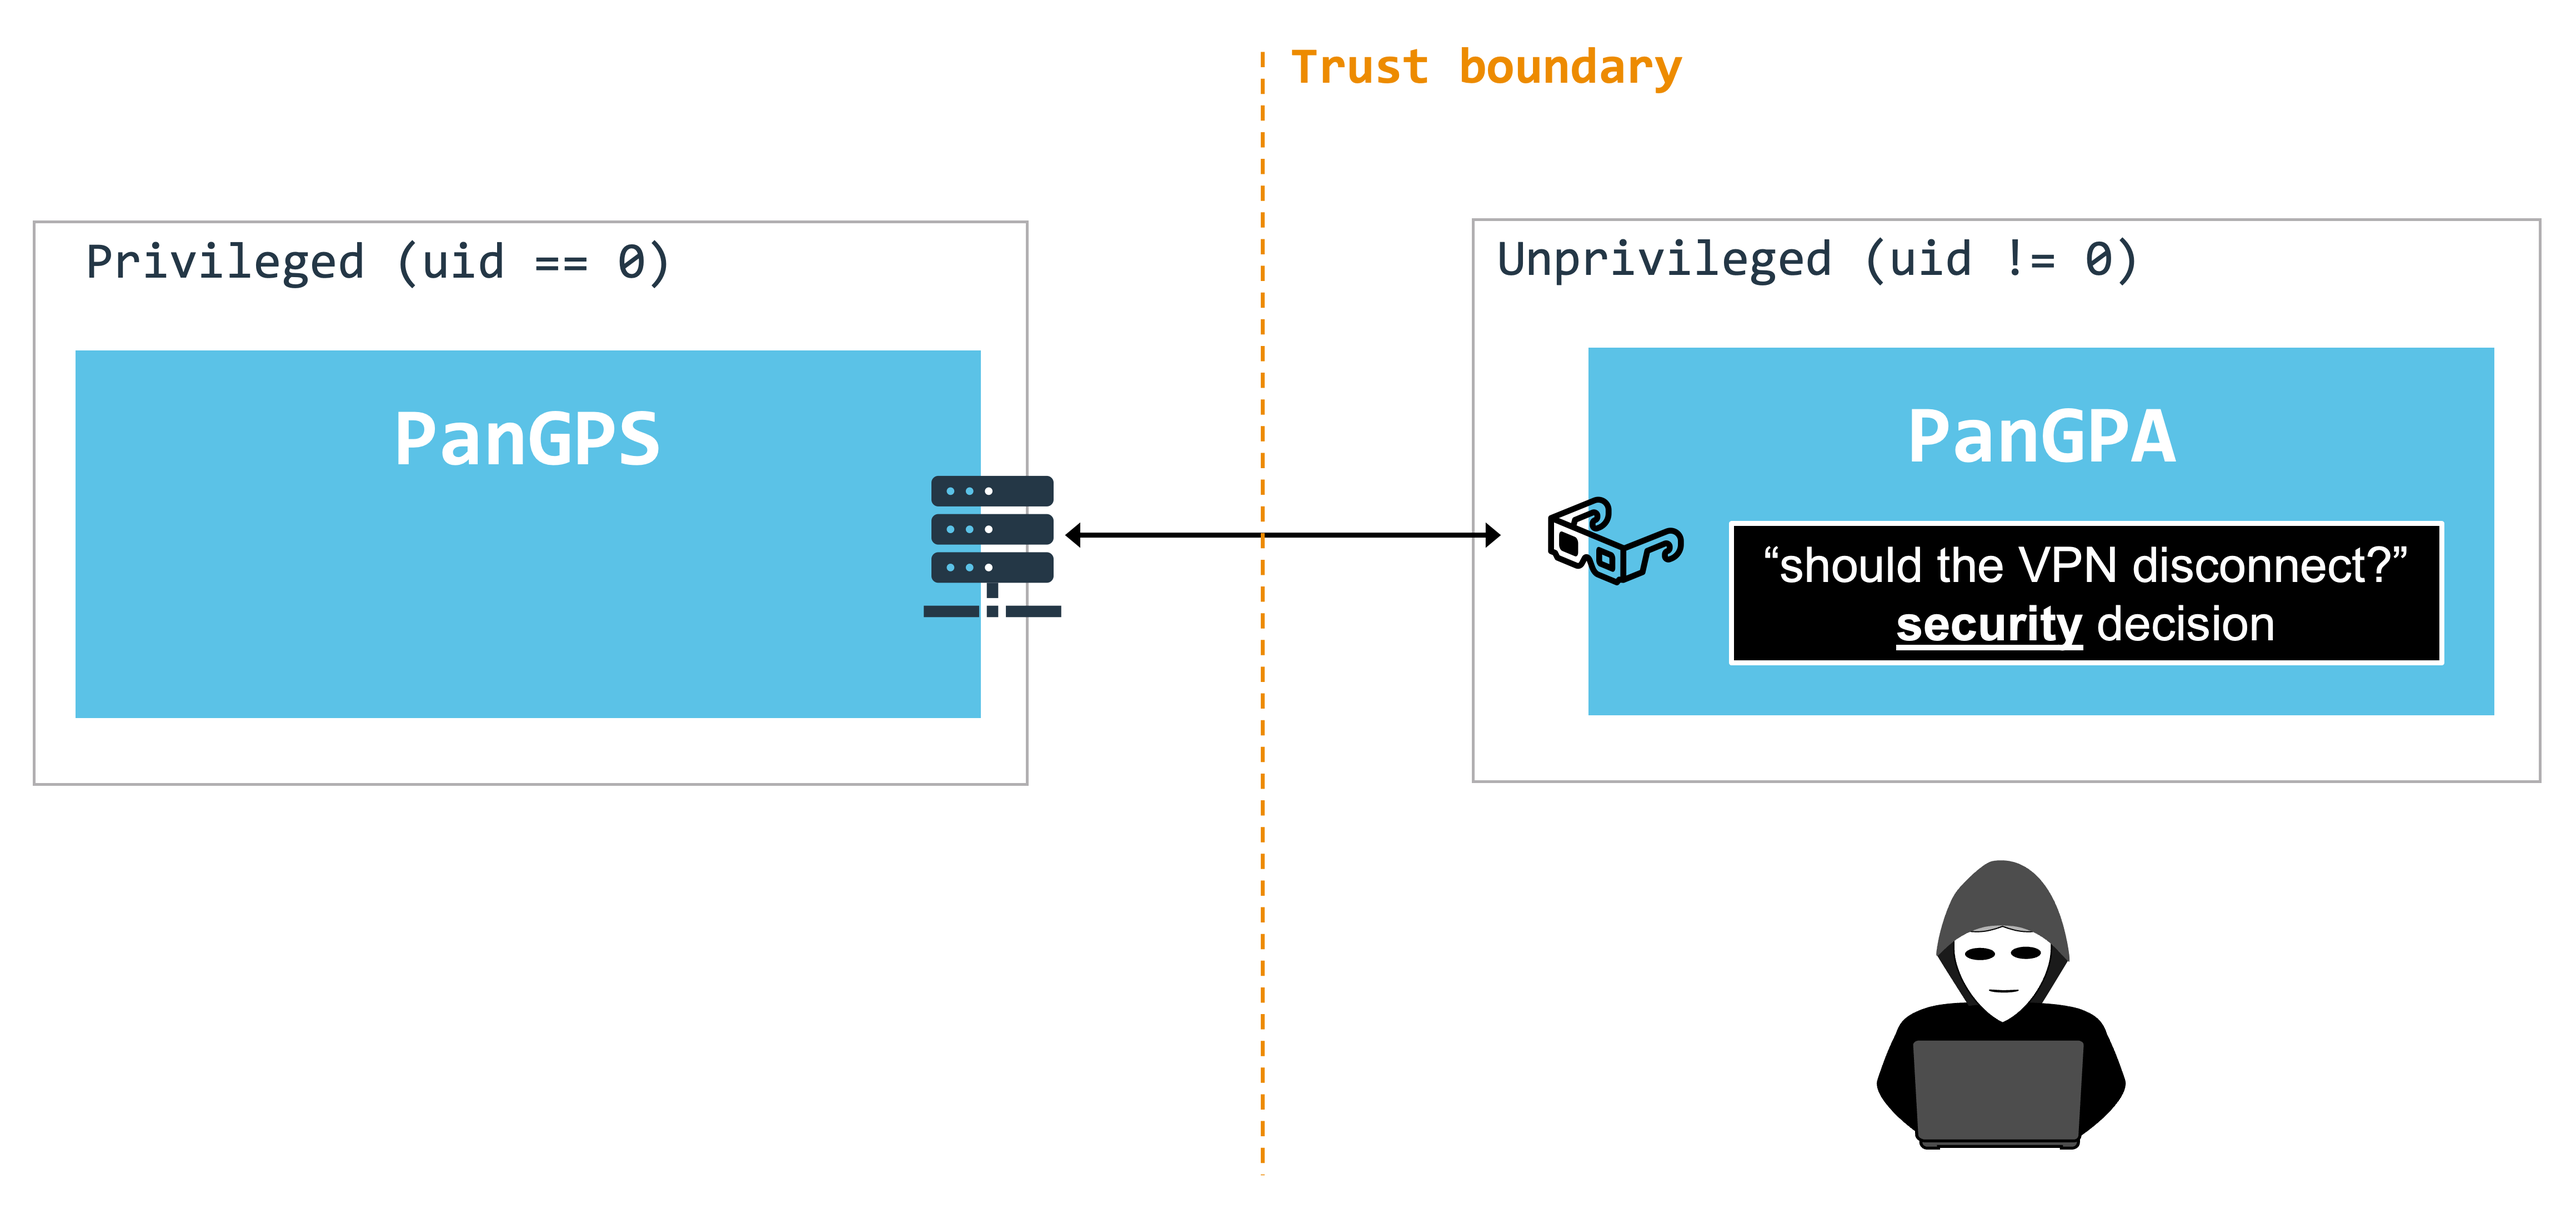
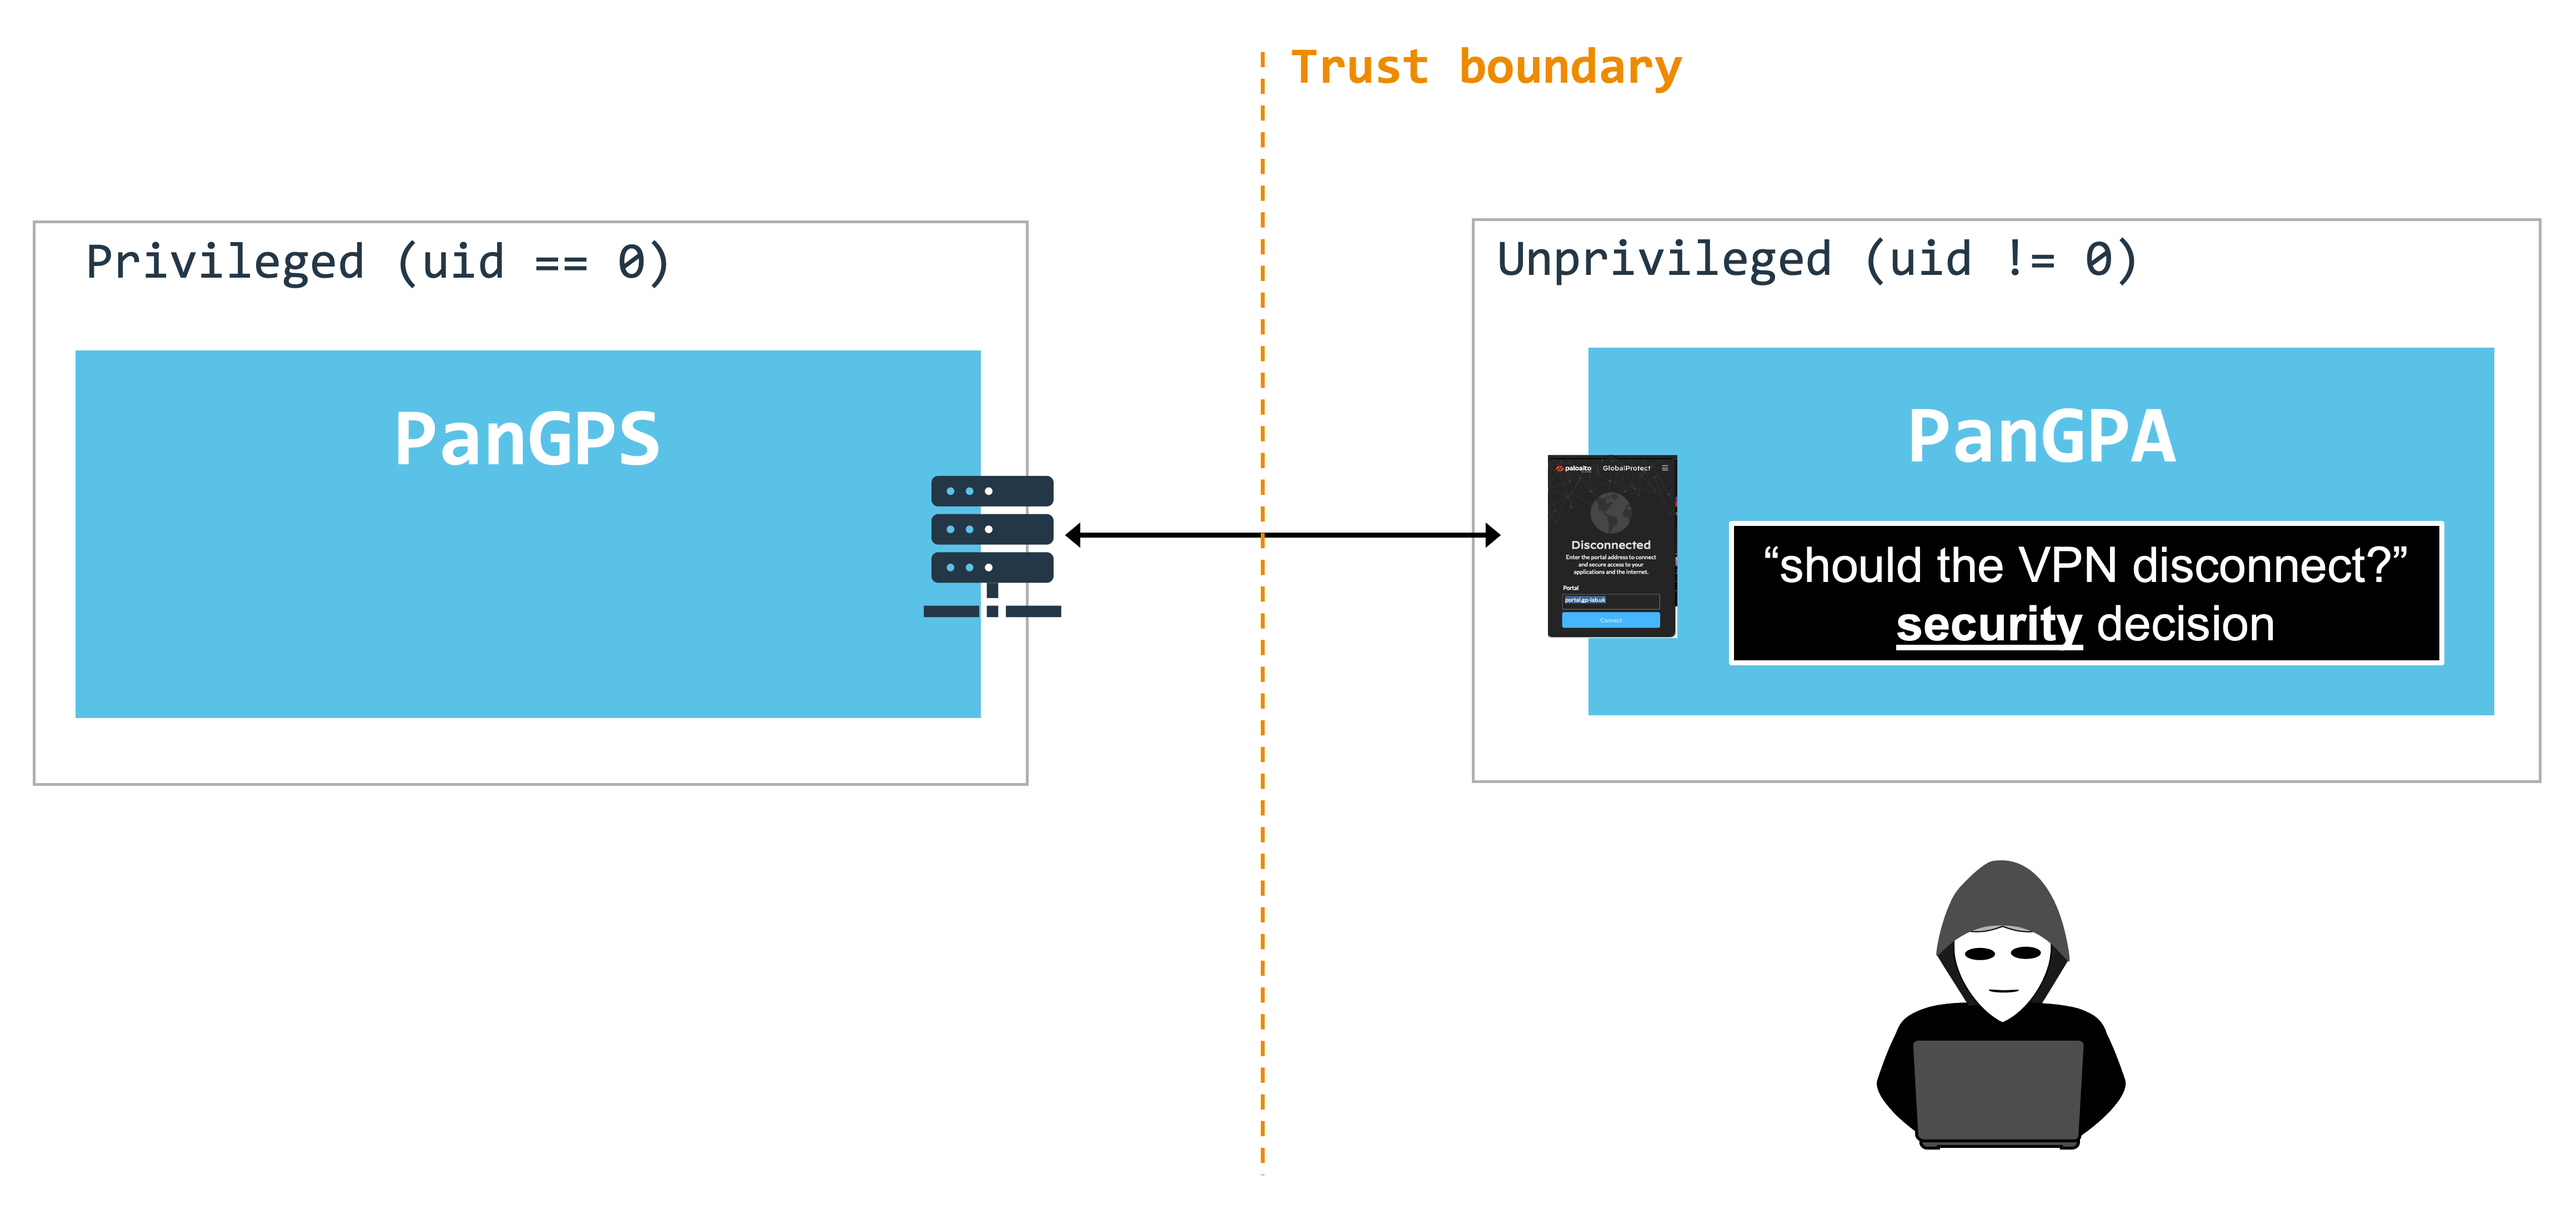
Research post improvements
- Make CVEs hyperlinks in table
- Update diagrams to make bits clearer

Changed region(s): [[0.5899, 0.3718, 0.652, 0.5267]]

diff --git a/research/turning-the-table-on-globalprotect.md b/research/turning-the-table-on-globalprotect.md
@@ -26,10 +26,10 @@ Please see the table below summarising the state of the reported vulnerabilities
 | Vulnerability (CVE) | Reported | Status | Fixed | Notes / Mitigation |
 |---------------------|----------|--------|-------|---------------------|
 | **VPN Bypass:** DNS Spoofing, Wildcard Split Tunnel Domain | April 2024 | 🔴 **WON'T FIX** | N/A | *"After investigation, we have determined that we do not consider this a vulnerability in the GlobalProtect macOS app."*<br><br>Potential mitigation: Combine `Split Tunnel Domain` _and_ `Split DNS` features. |
-| **VPN Bypass:** Forged IPC Disconnect (macOS) | October 2024 | 🟢 **PATCHED**<br><br>**CVE-2025-0135**<br>CVSS v4 Base: <span class="cvss-medium">**5.7**</span> | July 2025<br><br>Initial patch ineffective, repatched in:<br>- `6.2.8-h3` (6.2.8-c263)<br>- `6.3.3-h2` (6.3.3-c676) | Palo Alto reported to fix under CVE-2025-0135, however vulnerability still present<br><br>Repatched successfully under original CVE-2025-0135 |
-| **VPN Bypass:** Forged IPC Disconnect (Linux) | October 2024 | 🟢 **PATCHED**<br><br>**CVE-2025-2179**<br>CVSS v4 Base: <span class="cvss-high">**6.8**</span> | July 2025<br><br>Initial patch ineffective, repatched in:<br>- `6.2.9` | Palo Alto reported to fix under CVE-2025-0140, however vulnerability still present<br><br>Repatched successfully under CVE-2025-2179 |
-| **VPN Bypass:** Plist File Modification (macOS) | October 2024 | 🟢 **PATCHED**<br><br>**CVE-2025-0140**<br>CVSS v4 Base: <span class="cvss-high">**6.8**</span> | July 2025<br><br>Patched in:<br>- `6.2.8-h2` (6.2.8-c233)<br>- `6.3.3-h1` (6.3.3-c650) | Although initially reported for macOS, Palo Alto reported to affect:<br>- Linux<br>- macOS |
-| **Privilege Escalation:** SUID Binary Abuse (macOS) | October 2024 | 🟢 **PATCHED**<br><br>**CVE-2025-0141**<br>CVSS v4 Base: <span class="cvss-critical">**8.4**</span> | July 2025<br><br>Patched in:<br>- `6.2.8-h2` (6.2.8-c233)<br>- `6.3.3-h1` (6.3.3-c650) | Although initially reported for macOS, Palo Alto reported to affect:<br>- Windows<br>- Linux<br>- macOS |
+| **VPN Bypass:** Forged IPC Disconnect (macOS) | October 2024 | 🟢 **PATCHED**<br><br>**[CVE-2025-0135](https://security.paloaltonetworks.com/CVE-2025-0135)**<br>CVSS v4 Base: <span class="cvss-medium">**5.7**</span> | July 2025<br><br>Initial patch ineffective, repatched in:<br>- `6.2.8-h3` (6.2.8-c263)<br>- `6.3.3-h2` (6.3.3-c676) | Palo Alto reported to fix under CVE-2025-0135, however vulnerability still present<br><br>Repatched successfully under original CVE-2025-0135 |
+| **VPN Bypass:** Forged IPC Disconnect (Linux) | October 2024 | 🟢 **PATCHED**<br><br>**[CVE-2025-2179](https://security.paloaltonetworks.com/CVE-2025-2179)**<br>CVSS v4 Base: <span class="cvss-high">**6.8**</span> | July 2025<br><br>Initial patch ineffective, repatched in:<br>- `6.2.9` | Palo Alto reported to fix under CVE-2025-0140, however vulnerability still present<br><br>Repatched successfully under CVE-2025-2179 |
+| **VPN Bypass:** Plist File Modification (macOS) | October 2024 | 🟢 **PATCHED**<br><br>**[CVE-2025-0140](https://security.paloaltonetworks.com/CVE-2025-0140)**<br>CVSS v4 Base: <span class="cvss-high">**6.8**</span> | July 2025<br><br>Patched in:<br>- `6.2.8-h2` (6.2.8-c233)<br>- `6.3.3-h1` (6.3.3-c650) | Although initially reported for macOS, Palo Alto reported to affect:<br>- Linux<br>- macOS |
+| **Privilege Escalation:** SUID Binary Abuse (macOS) | October 2024 | 🟢 **PATCHED**<br><br>**[CVE-2025-0141](https://security.paloaltonetworks.com/CVE-2025-0141)**<br>CVSS v4 Base: <span class="cvss-critical">**8.4**</span> | July 2025<br><br>Patched in:<br>- `6.2.8-h2` (6.2.8-c233)<br>- `6.3.3-h1` (6.3.3-c650) | Although initially reported for macOS, Palo Alto reported to affect:<br>- Windows<br>- Linux<br>- macOS |
 
 In the sections that follow, I'll break down each vulnerability, explain the root cause, and walk through how we found it.
 
